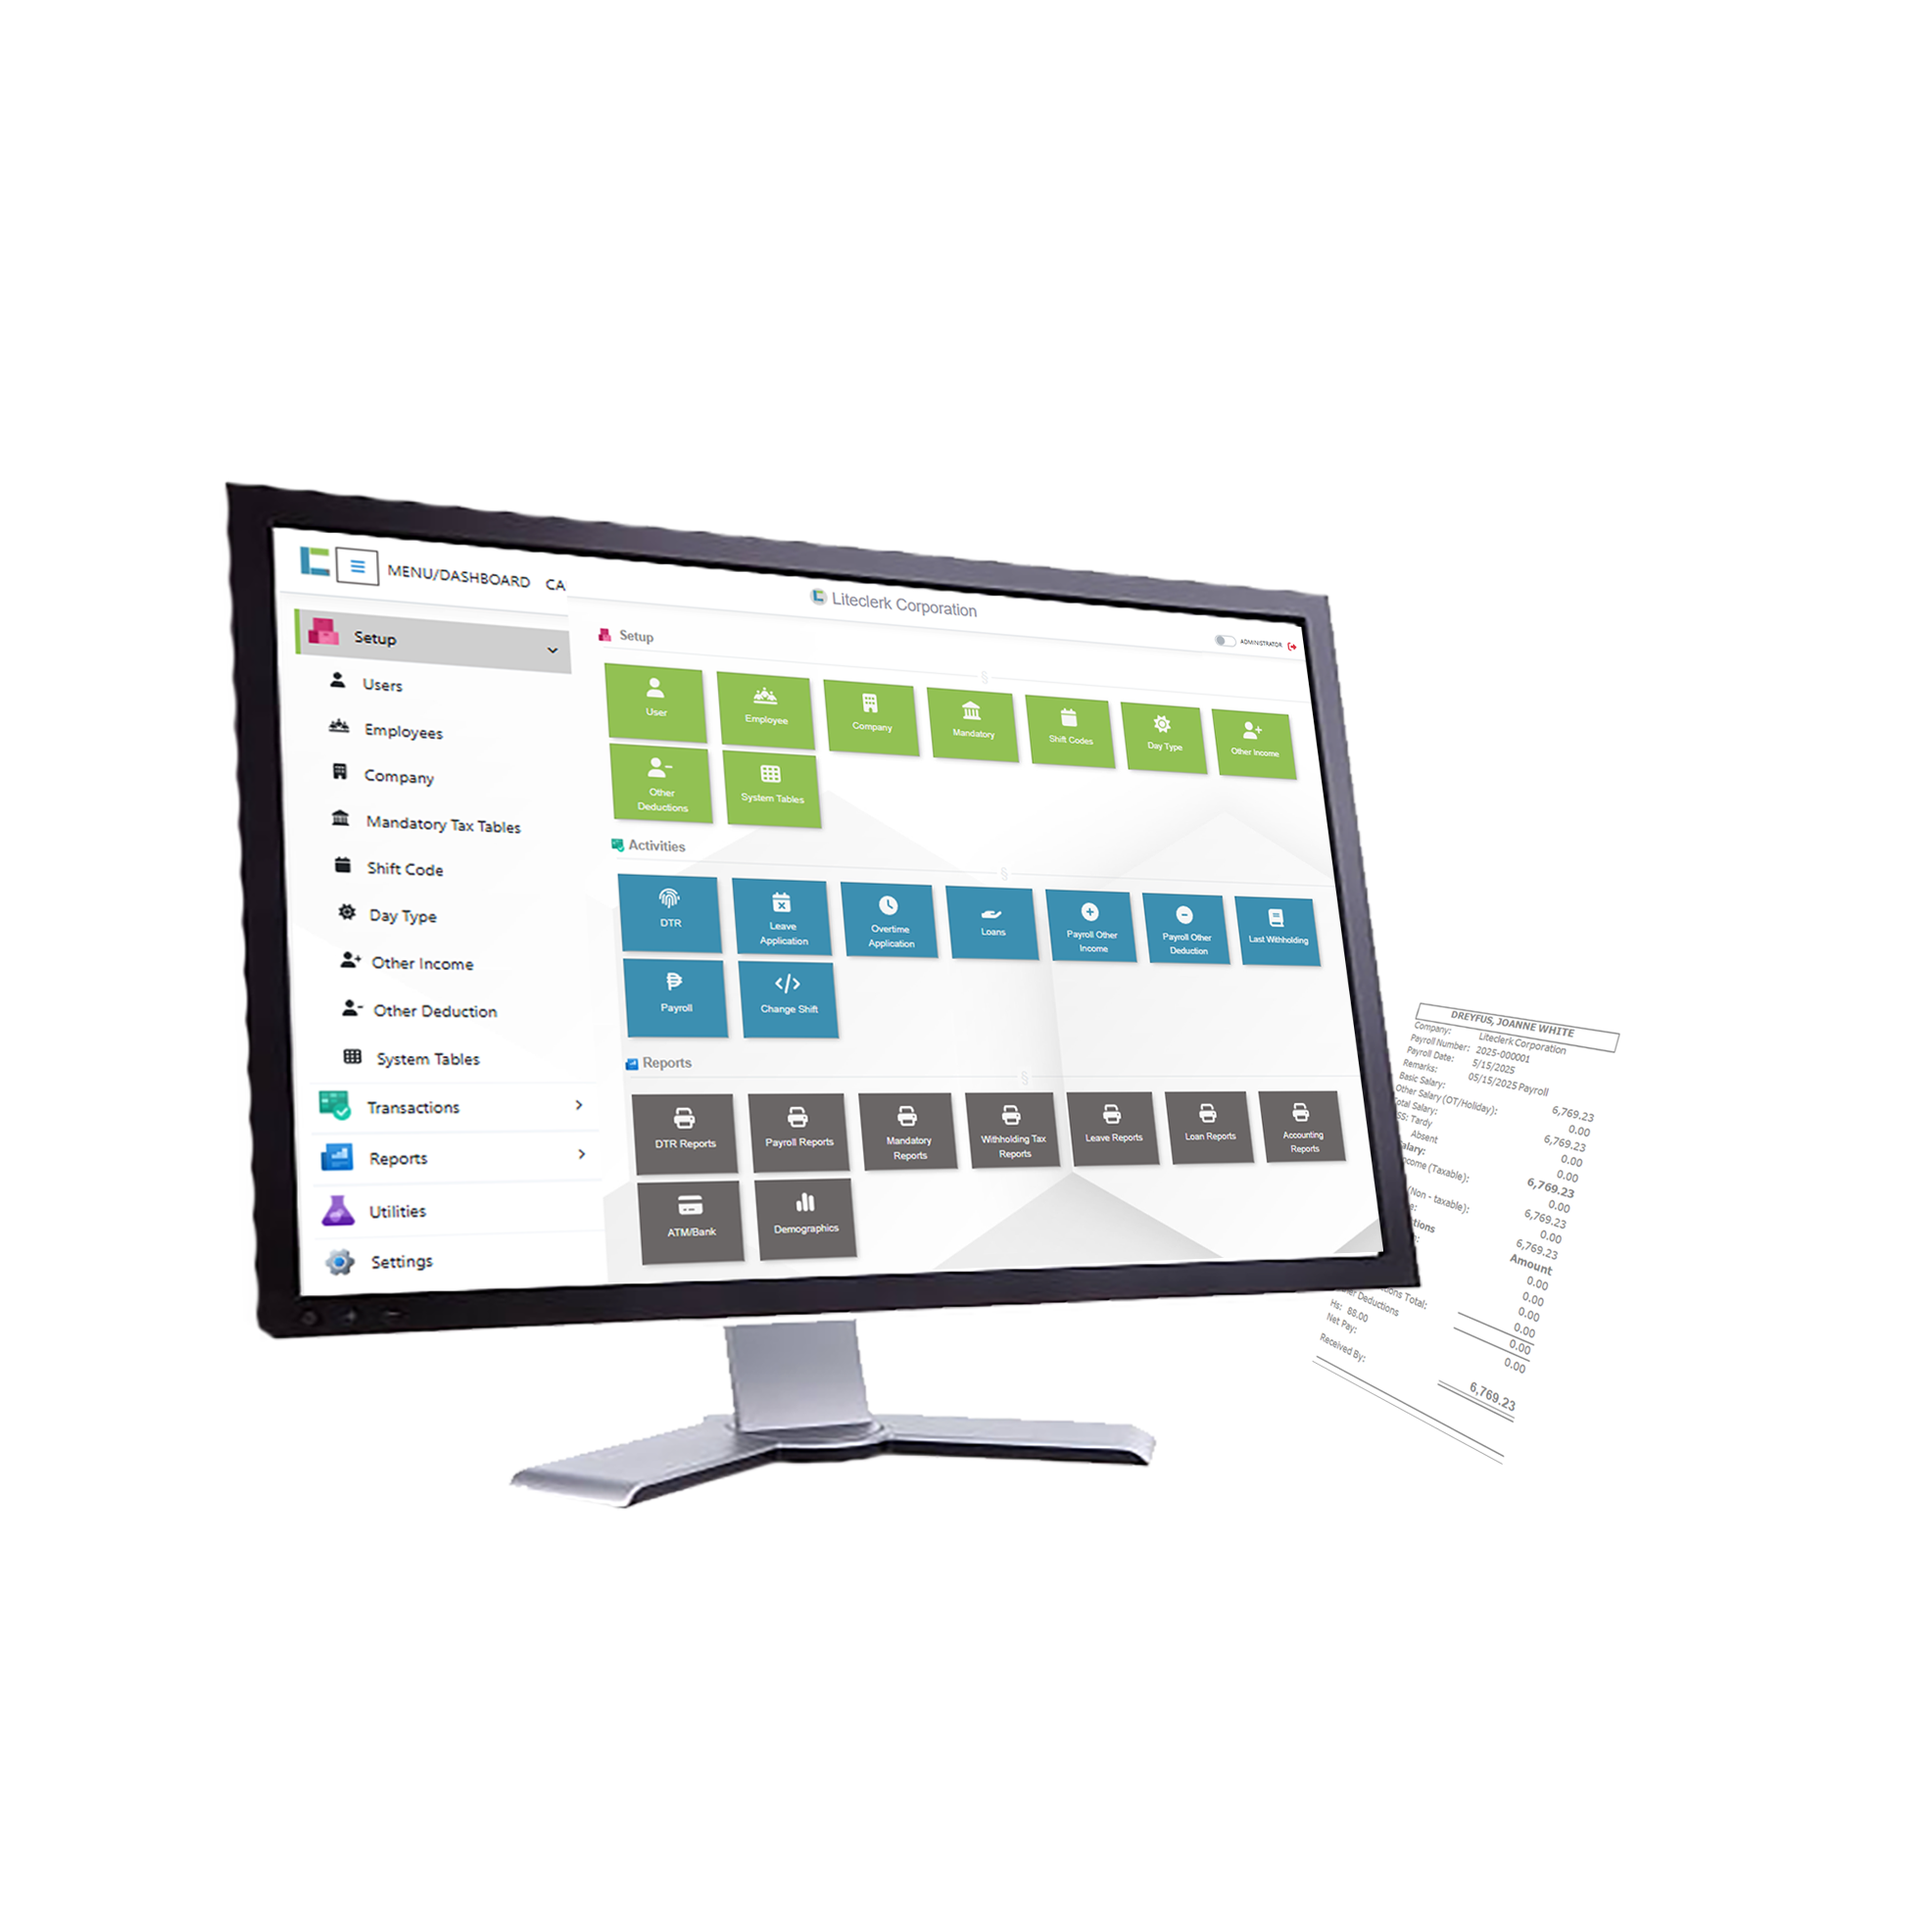
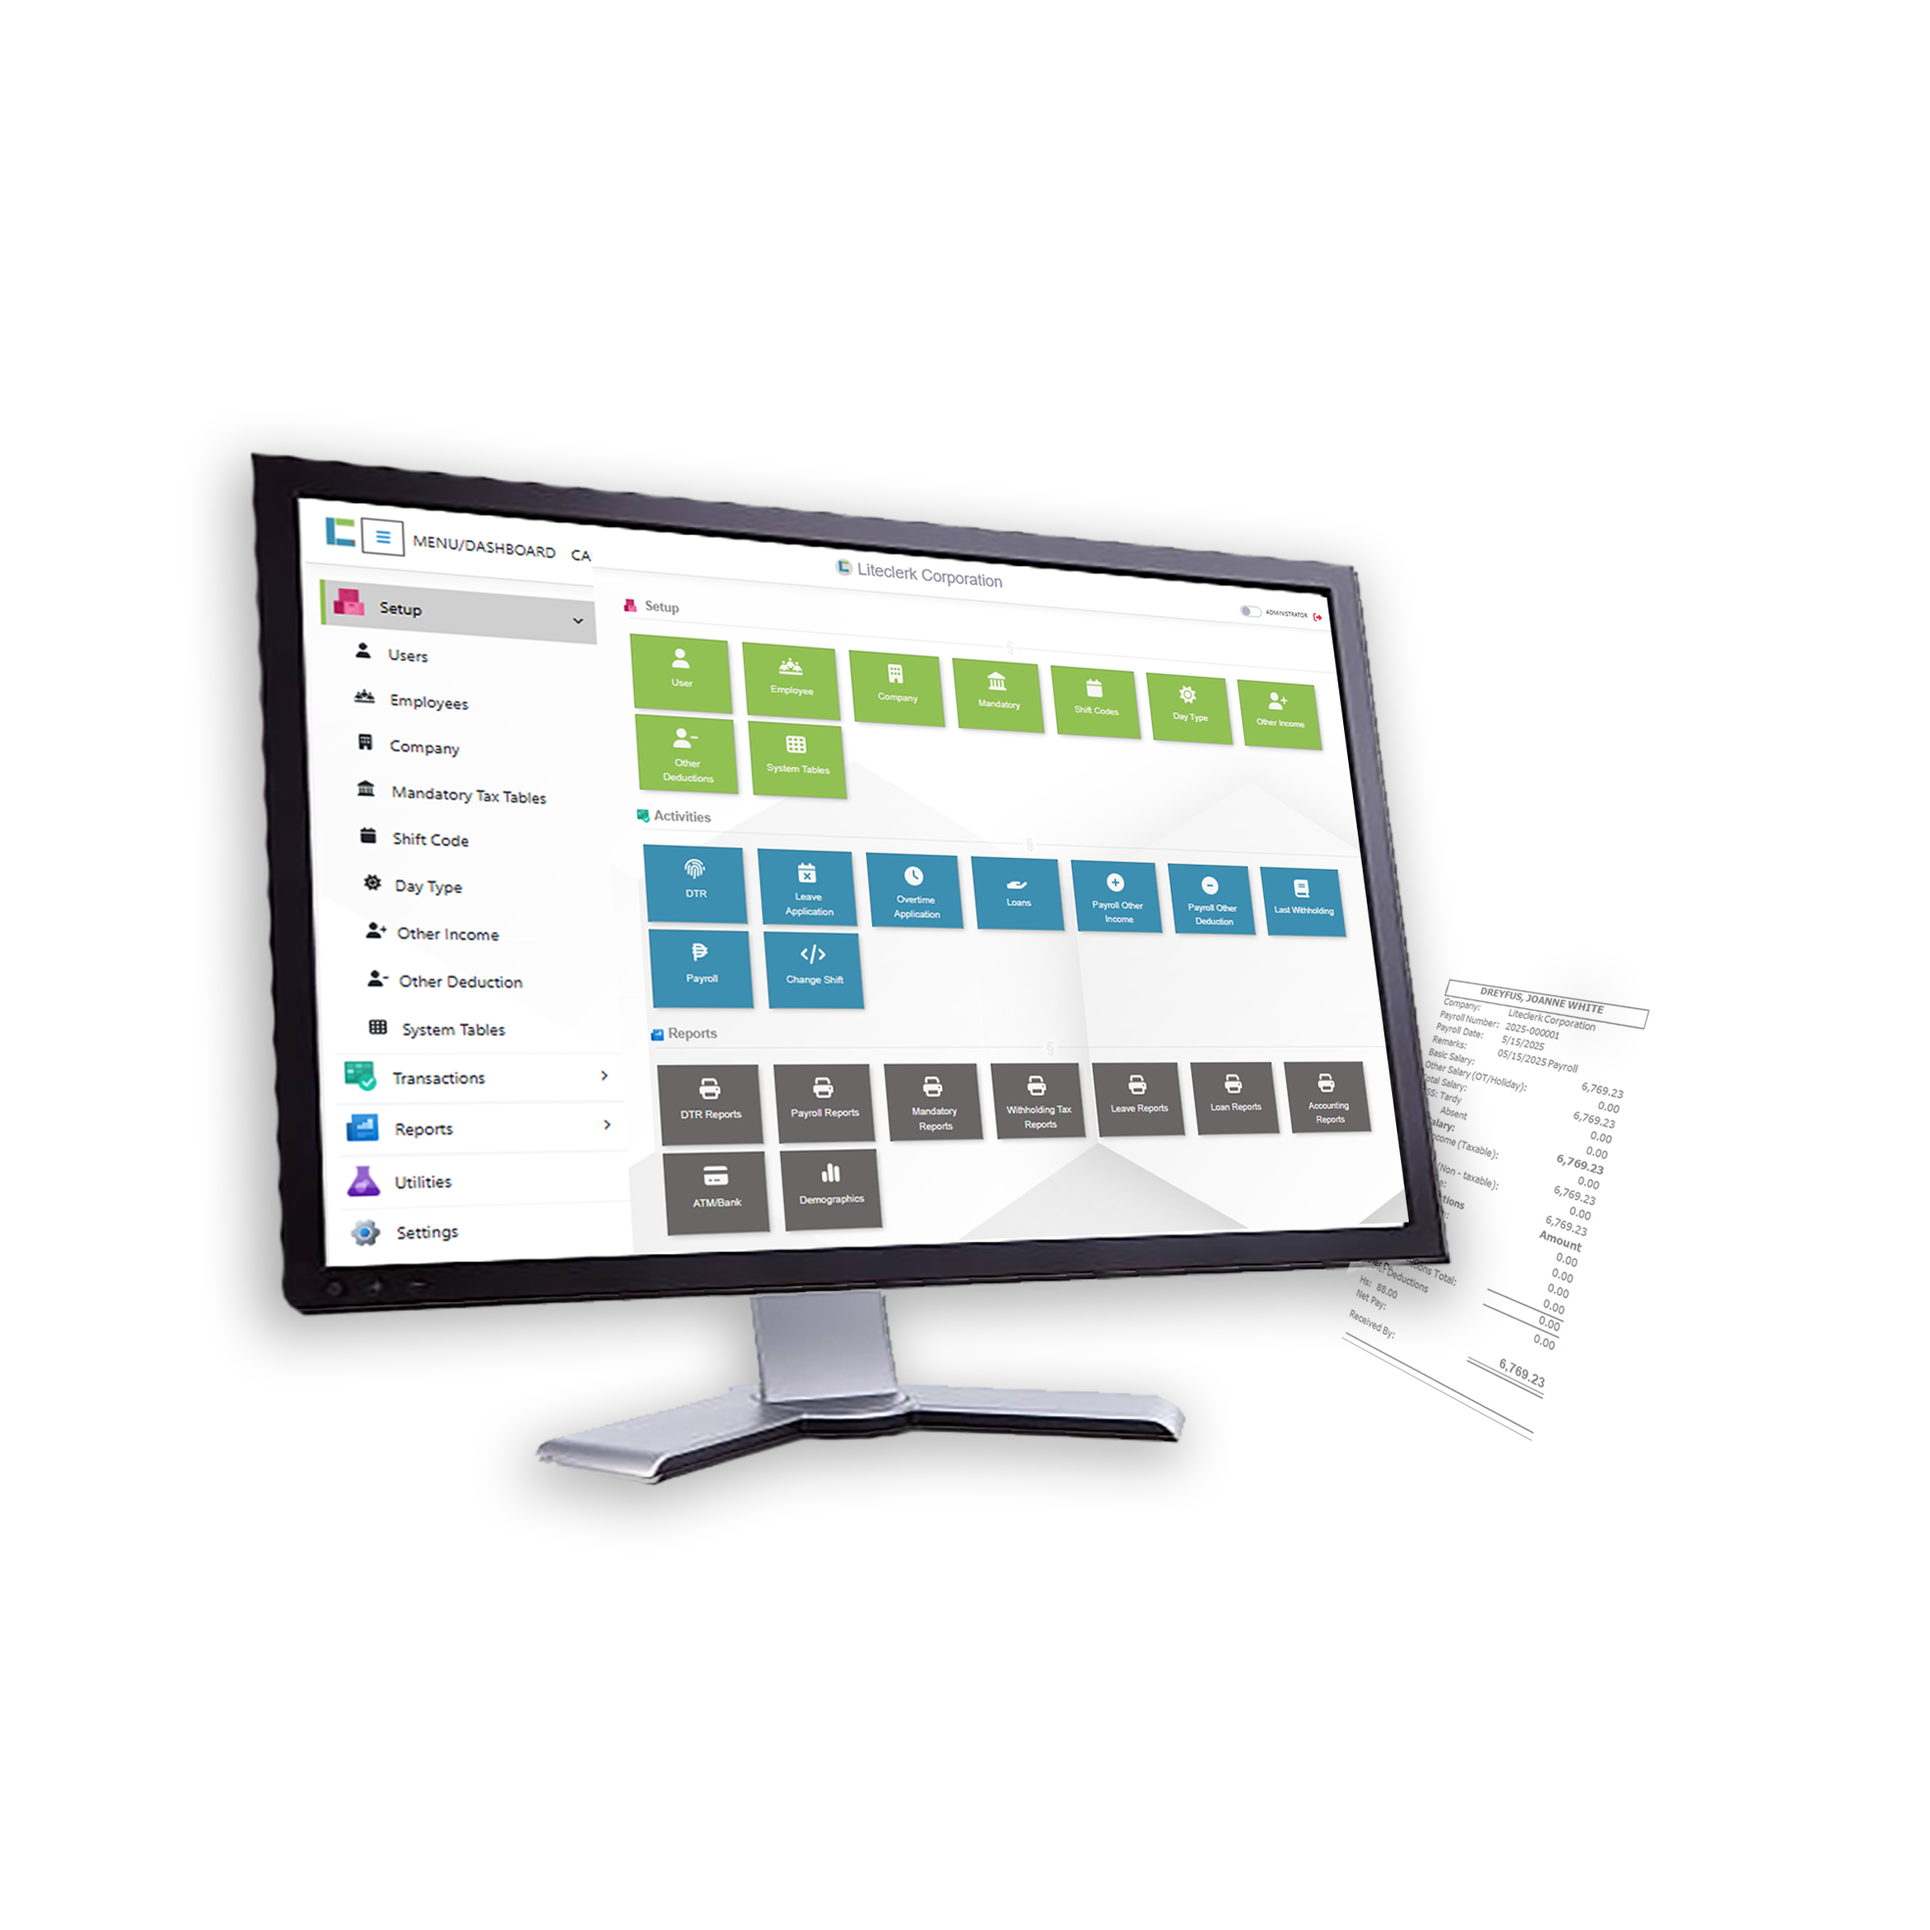
Added links to facebook, tiktok, and youtube added glow hover effects, Added transitions on Cloudhis and cloudfis

Changed region(s): [[0.0929, 0.2168, 0.836, 0.8051]]

diff --git a/src/app/products/fis/fis.html b/src/app/products/fis/fis.html
@@ -34,7 +34,7 @@
                 <div class="w-full">
                     <div class="glass-card p-4 md:p-6 border-white/10 shadow-2xl cursor-pointer hover:border-primary/40 transition-all h-[340px] flex flex-col items-center justify-between"
                          (click)="openImageModal('/Images/cloudfis/Balance_Sheet.png')">
-                        <p class="text-center font-semibold text-lg md:text-xl tracking-wide" style="color: #ffffff;">BALANCE SHEET</p>
+                        <p class="text-center font-semibold text-lg md:text-xl tracking-wide" style="color: #00ff9c;">BALANCE SHEET</p>
                         <img alt="Liteclerk Cloud FIS Reports"
                             class="rounded-xl w-full border border-white/5 opacity-90 h-auto max-h-[240px] object-contain flex-1"
                             src="/Images/cloudfis/Balance_Sheet.png"/>
@@ -45,7 +45,7 @@
                 <div class="w-full">
                     <div class="glass-card p-4 md:p-6 border-white/10 shadow-2xl cursor-pointer hover:border-primary/40 transition-all h-[340px] flex flex-col items-center justify-between"
                          (click)="openImageModal('/Images/cloudfis/Income_Statement_Report.png')">
-                        <p class="text-center font-semibold text-lg md:text-xl tracking-wide" style="color: #ffffff;">INCOME STATEMENT REPORT</p>
+                        <p class="text-center font-semibold text-lg md:text-xl tracking-wide" style="color: #00ff9c;">INCOME STATEMENT REPORT</p>
                         <img alt="Liteclerk Cloud FIS Dashboard"
                             class="rounded-xl w-full border border-white/5 opacity-90 h-auto max-h-[240px] object-contain flex-1"
                             src="/Images/cloudfis/Income_Statement_Report.png"/>
@@ -56,7 +56,7 @@
                 <div class="w-full">
                     <div class="glass-card p-4 md:p-6 border-white/10 shadow-2xl cursor-pointer hover:border-primary/40 transition-all h-[340px] flex flex-col items-center justify-between"
                          (click)="openImageModal('/Images/cloudfis/Cash_Flow.png')">
-                        <p class="text-center font-semibold text-lg md:text-xl tracking-wide" style="color: #ffffff;">CASH FLOW</p>
+                        <p class="text-center font-semibold text-lg md:text-xl tracking-wide" style="color: #00ff9c;">CASH FLOW</p>
                         <img alt="Liteclerk Cloud FIS Analytics"
                             class="rounded-xl w-full border border-white/5 opacity-90 h-auto max-h-[240px] object-contain flex-1"
                             src="/Images/cloudfis/Cash_Flow.png"/>

diff --git a/src/app/pages/products/products.html b/src/app/pages/products/products.html
@@ -26,12 +26,13 @@ Explore Liteclerk’s business solutions including Desktop POS, Mobile POS, Clou
   <section class="w-full max-w-[1200px] mx-auto px-6 py-12 flex flex-col gap-24 mb-32">
     
     <!-- 1. DESKTOP POS -->
-     
     <div class="product-card relative">
         <div class="radial-touch bg-primary/5 -left-20 top-0"></div>
       <div class="lg:w-1/2 flex justify-center relative">
         <div class="light-leak-effect bg-[#00EAD3]"></div>
-         <img src="Images/desktopPos.png" alt="">
+        <div class="floating-icon">
+          <img src="Images/desktopPos.png" alt="">
+        </div>
       </div>
       <div class="lg:w-1/2 relative z-10">
         <div class="category-label text-[#00EAD3]">Point of Sale</div>
@@ -63,7 +64,7 @@ A portable POS solution allowing businesses to process sales, print receipts, an
       </div>
       <div class="lg:w-1/2 flex justify-center relative order-1 lg:order-2">
         <div class="light-leak-effect bg-[#00d2ff]"></div>
-        <div class="floating-icon icon-box">
+        <div class="floating-icon">
          <img src="Images/MobilePOS.png" alt="">
          
         </div>
@@ -76,7 +77,7 @@ A portable POS solution allowing businesses to process sales, print receipts, an
     <div class="radial-touch bg-primary/5 -left-20 top-0"></div>
       <div class="lg:w-1/2 flex justify-center relative">
         <div class="light-leak-effect bg-[#00EAD3]"></div>
-        <div class="floating-icon icon-box">
+        <div class="floating-icon">
           <img src="Images/sysproerp.png" alt="syspro ERP">
           
         </div>
@@ -110,7 +111,9 @@ A portable POS solution allowing businesses to process sales, print receipts, an
       </div>
       <div class="lg:w-1/2 flex justify-center relative order-1 lg:order-2">
         <div class="light-leak-effect bg-[#00d2ff]"></div>
-         <img src="Images/cloudfis.png" alt="Cloud FIS">
+        <div class="floating-icon">
+          <img src="Images/cloudfis.png" alt="Cloud FIS">
+        </div>
       </div>
     </div>
 
@@ -119,7 +122,9 @@ A portable POS solution allowing businesses to process sales, print receipts, an
      <div class="radial-touch bg-primary/5 -left-20 top-0"></div>
       <div class="lg:w-1/2 flex justify-center relative">
         <div class="light-leak-effect bg-[#00EAD3]"></div>
+        <div class="floating-icon">
           <img src="Images/cloudhis.png" alt="Cloud His payroll">
+        </div>
       </div>
       <div class="lg:w-1/2 relative z-10">
         <div class="category-label text-[#00EAD3]">Payroll</div>

diff --git a/src/app/footer/footer.html b/src/app/footer/footer.html
@@ -14,10 +14,10 @@
       <div>
         <h4 class="text-primary text-sm font-semibold mb-4">Stay Up To Date</h4>
         <ul class="space-y-3 text-sm">
-          <li><a href="#" class="text-slate-400 hover:text-white transition-colors">Facebook</a></li>
-          <li><a href="#" class="text-slate-400 hover:text-white transition-colors">Tiktok</a></li>
-          <li><a href="#" class="text-slate-400 hover:text-white transition-colors">Twitter</a></li>
-          <li><a href="#" class="text-slate-400 hover:text-white transition-colors">YouTube</a></li>
+          <li><a href="https://www.facebook.com/liteclerkcorp" class="text-slate-400 hover:text-white transition-colors social-link" target="_blank" rel="noopener noreferrer">Facebook</a></li>
+          <li><a href="https://www.tiktok.com/@liteclerk" class="text-slate-400 hover:text-white transition-colors social-link" target="_blank" rel="noopener noreferrer">Tiktok</a></li>
+          <li><a href="#" class="text-slate-400 hover:text-white transition-colors social-link">Twitter</a></li>
+          <li><a href="https://www.youtube.com/@liteclerk-pointofsalessoft1137" class="text-slate-400 hover:text-white transition-colors social-link" target="_blank" rel="noopener noreferrer">YouTube</a></li>
         </ul>
       </div>
 

diff --git a/src/app/products/his/his.css b/src/app/products/his/his.css
@@ -103,3 +103,54 @@
 .scrollbar-hide::-webkit-scrollbar {
   display: none;  /* Safari and Chrome */
 }
+
+/* Carousel Navigation Button Glow Effect */
+.carousel-nav-btn:hover {
+  box-shadow: 0 0 20px rgba(0, 242, 195, 0.6), 
+              0 0 40px rgba(0, 242, 195, 0.4),
+              0 0 60px rgba(0, 242, 195, 0.2);
+}
+
+/* Modal Animations */
+.modal-backdrop {
+  animation: fadeIn 0.3s ease-out;
+}
+
+.modal-content {
+  animation: zoomIn 0.4s cubic-bezier(0.34, 1.56, 0.64, 1);
+}
+
+.modal-image {
+  animation: imageScale 0.4s cubic-bezier(0.34, 1.56, 0.64, 1);
+}
+
+@keyframes fadeIn {
+  from {
+    opacity: 0;
+  }
+  to {
+    opacity: 1;
+  }
+}
+
+@keyframes zoomIn {
+  from {
+    opacity: 0;
+    transform: scale(0.7);
+  }
+  to {
+    opacity: 1;
+    transform: scale(1);
+  }
+}
+
+@keyframes imageScale {
+  from {
+    opacity: 0;
+    transform: scale(0.85);
+  }
+  to {
+    opacity: 1;
+    transform: scale(1);
+  }
+}

diff --git a/src/app/products/his/his.ts b/src/app/products/his/his.ts
@@ -10,6 +10,8 @@ import { CommonModule } from '@angular/common';
 })
 export class His {
   currentSlide = 0;
+  selectedImage: string | null = null;
+  
   slides = [
     {
       title: 'PAYSLIP',
@@ -34,5 +36,13 @@ export class His {
 
   prevSlide() {
     this.currentSlide = (this.currentSlide - 1 + this.slides.length) % this.slides.length;
+  }
+
+  openImageModal(imageSrc: string) {
+    this.selectedImage = imageSrc;
+  }
+
+  closeImageModal() {
+    this.selectedImage = null;
   }
 }

diff --git a/src/app/footer/footer.css b/src/app/footer/footer.css
@@ -1,0 +1,13 @@
+/* Social Media Links Glow Effect */
+.social-link {
+  position: relative;
+  transition: all 0.3s ease;
+}
+
+.social-link:hover {
+  text-shadow: 0 0 10px rgba(0, 242, 195, 0.8),
+               0 0 20px rgba(0, 242, 195, 0.7),
+               0 0 30px rgba(0, 242, 195, 0.6),
+               0 0 40px rgba(0, 242, 195, 0.5),
+               0 0 50px rgba(0, 242, 195, 0.4);
+}
